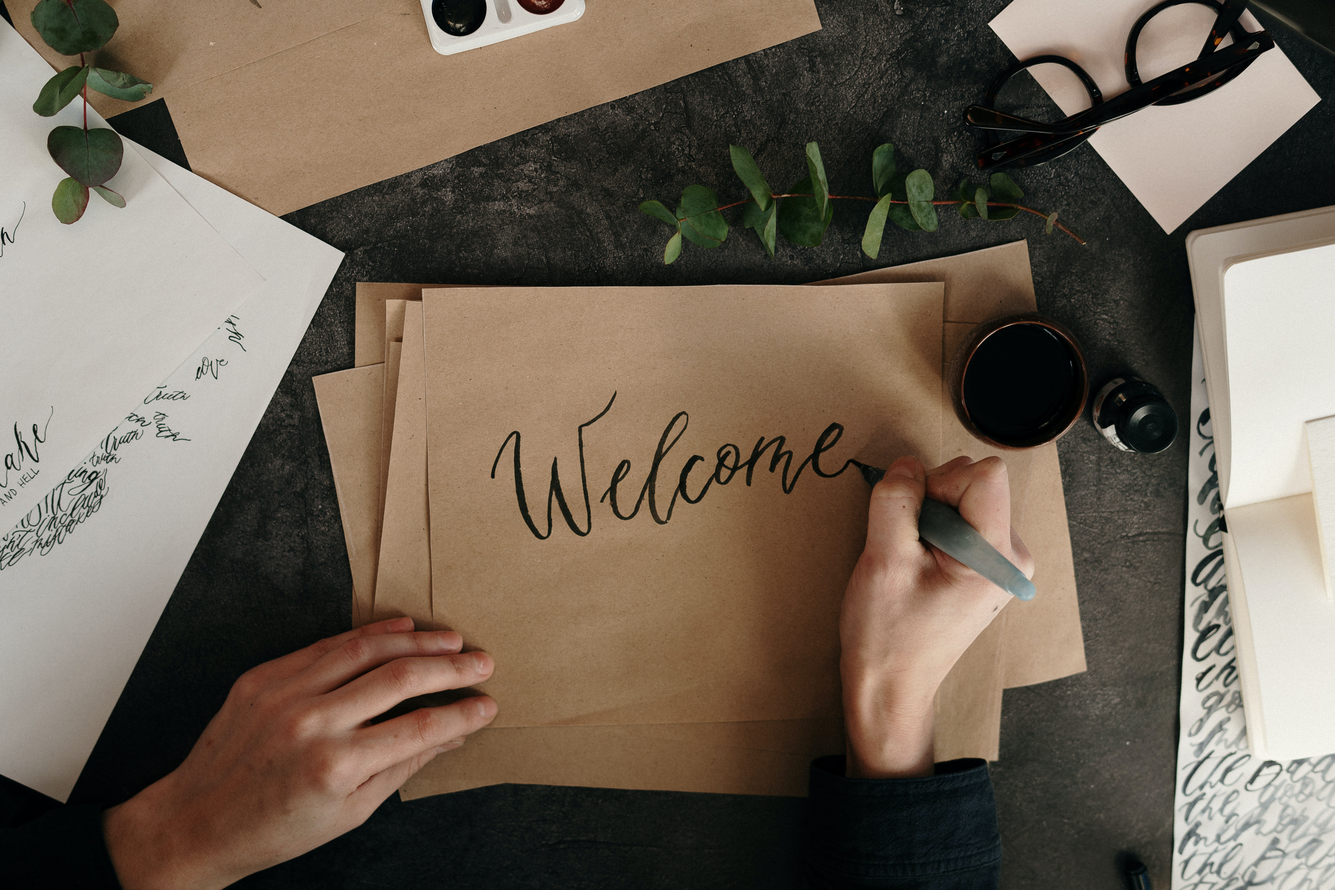
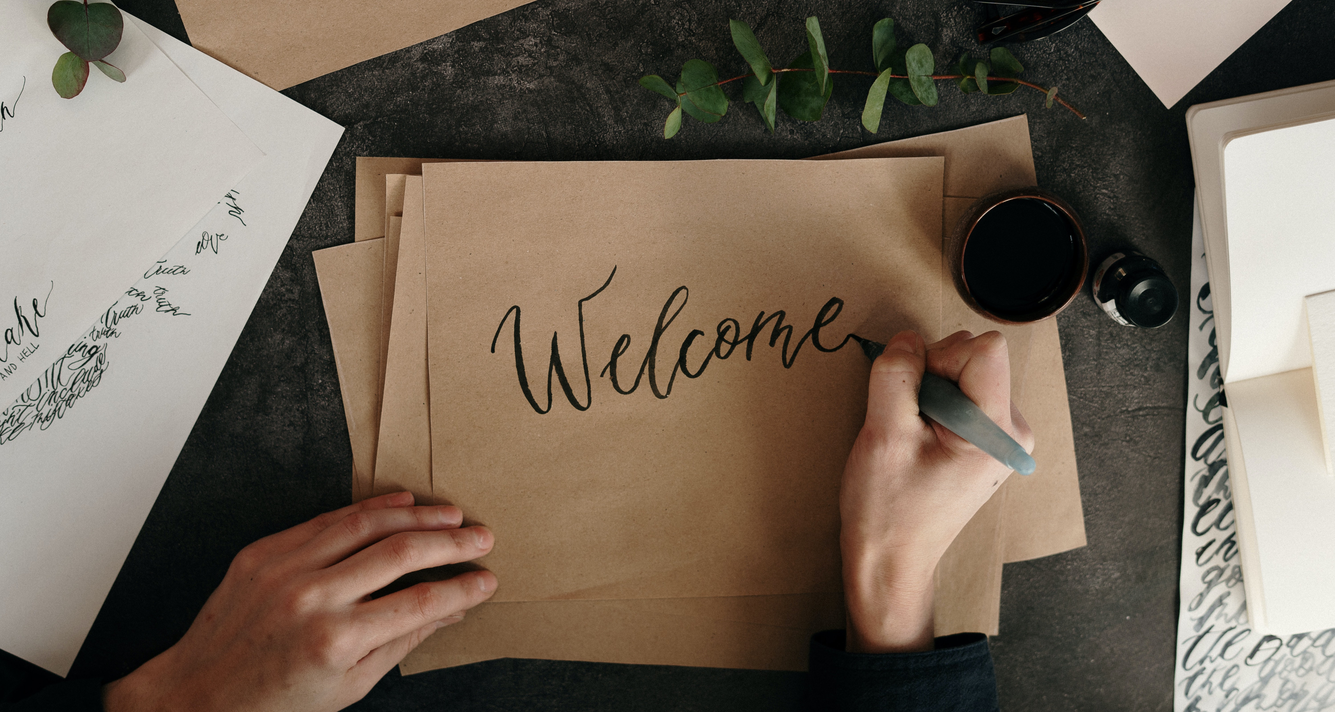
complete style.css

diff --git a/style.css b/style.css
@@ -1,15 +1,20 @@
-@import url('https://fonts.googleapis.com/css2?family=Roboto:wght@300&display=swap');
-
+@import url('https://fonts.googleapis.com/css2?family=Roboto:ital,wght@0,100;0,300;0,400;0,500;0,700;0,900;1,100;1,300;1,400;1,500;1,700;1,900&display=swap');
 body {
     display: flex;
     flex-direction: column;
     font-family: 'Roboto', sans-serif;
+    margin: 0;
+}
+
+h1, p {
+    margin: 0;
 }
 
 .header {
     display: flex;
     justify-content: space-between;
-    padding: 16px 128px;
+    align-items: center;
+    padding: 16px 10%;
     gap: 16px;
 }
 
@@ -32,8 +37,9 @@ body {
 
 .content-section {
     display: flex;
-    padding: 100px 128px;
+    padding: 50px 10%;
     justify-content: space-between;
+    gap: 100px;
 }
 
 .item {
@@ -43,6 +49,20 @@ body {
 .vertical {
     display: flex;
     flex-direction: column;
+    gap: 16px;
+}
+
+.button {
+    display: flex;
+    justify-content: center;
+    align-items: center;
+    white-space: nowrap;
+    width: 100px;
+    background-color: #3882f6;
+    border-radius: 10px;
+    border: none;
+    color: white;
+    font-weight: bold;
 }
 
 .cards {
@@ -55,6 +75,7 @@ body {
     display: flex;
     flex-direction: column;
     align-items: center;
+    gap: 10px;
 }
 
 .card-img {
@@ -67,26 +88,59 @@ body {
 .card-text {
     color: #6c6c6c;
     text-align: center;
+    width: 128px;
 }
 
 .quote {
-    color: antiquewhite;
+    color: #1f2937;
+    font-size: 36px;
+    font-style: italic;
+    font-weight: 100;
 }
 
 .quote-credit {
-    color: antiquewhite;
+    color: black;
+    align-self: flex-end;
 }
 
 .CTA-box {
-    color: antiquewhite;
+    display: flex;
+    background-color: #3882f6;
+    padding: 24px 75px;
+    border-radius: 10px;
+    margin: 0px 70px;
+    flex: 1;
+    justify-content: space-between;
 }
 
 .CTA-title {
-    color: antiquewhite;
+    color: white;
+    font-weight: bold;
+    font-size: 24px;
+}
+
+.CTA-box p {
+    color: #e5e7eb;
+}
+
+.CTA-box .vertical {
+    gap: 8px;
+}
+
+.CTA-box .button {
+    border: white 2px solid;
+    height: min-content;
+    align-self: center;
 }
 
 .footer {
-    color: antiquewhite;
+    display: flex;
+    color: white;
+    background-color: #1F2937;
+    align-items: center;
+    justify-content: center;
+    padding: 16px 0px;
+    font-size: 16px;
 }
 
 .color1 {

diff --git a/index.html b/index.html
@@ -24,13 +24,13 @@
 
     <div class="content-section color1">
         <div class="vertical item">
-            <h1>Welcome to my website!</h1>
-            <p>This is some text that is small and unobtrusive so don't read it please. Here's a sign up button</p>
-            <button>Sign up</button>
+            <h1>Welcome to my Website!</h1>
+            <p style="color: rgb(199, 199, 199); font-size: 16px; font-weight: 200;">This is some text that is small and unobtrusive so don't read it please. Here's a sign up button</p>
+            <button class="button">Sign up</button>
         </div>
         <div class="item">
             <img src="/Images/pexels-cottonbro-3826678.jpg" alt="Picture of a desk with the handwritten word Welcome"
-                style="width: 150px;height: auto">
+                style="width: 100%;height: auto">
         </div>
     </div>
 
@@ -56,16 +56,18 @@
         </div>
     </div>
 
-    <div class="content-section color3">
+    <div class="content-section vertical color3">
         <p class="quote">Now hear my battle cry. AHHHHHHHHHHHHHH</p>
         <p class="quote-credit">-Sin Tzu, The Art of War</p>
     </div>
 
     <div class="content-section color2">
         <div class="CTA-box">
-            <div class="CTA-title">
+            <div class="vertical">
+                <div class="CTA-title">Look! Free things!</div>
                 <p>Sign up for a FREE copy of The Art of War by clicking the button!</p>
             </div>
+            <button class="button">Sign up</button>
         </div>
     </div>
 
